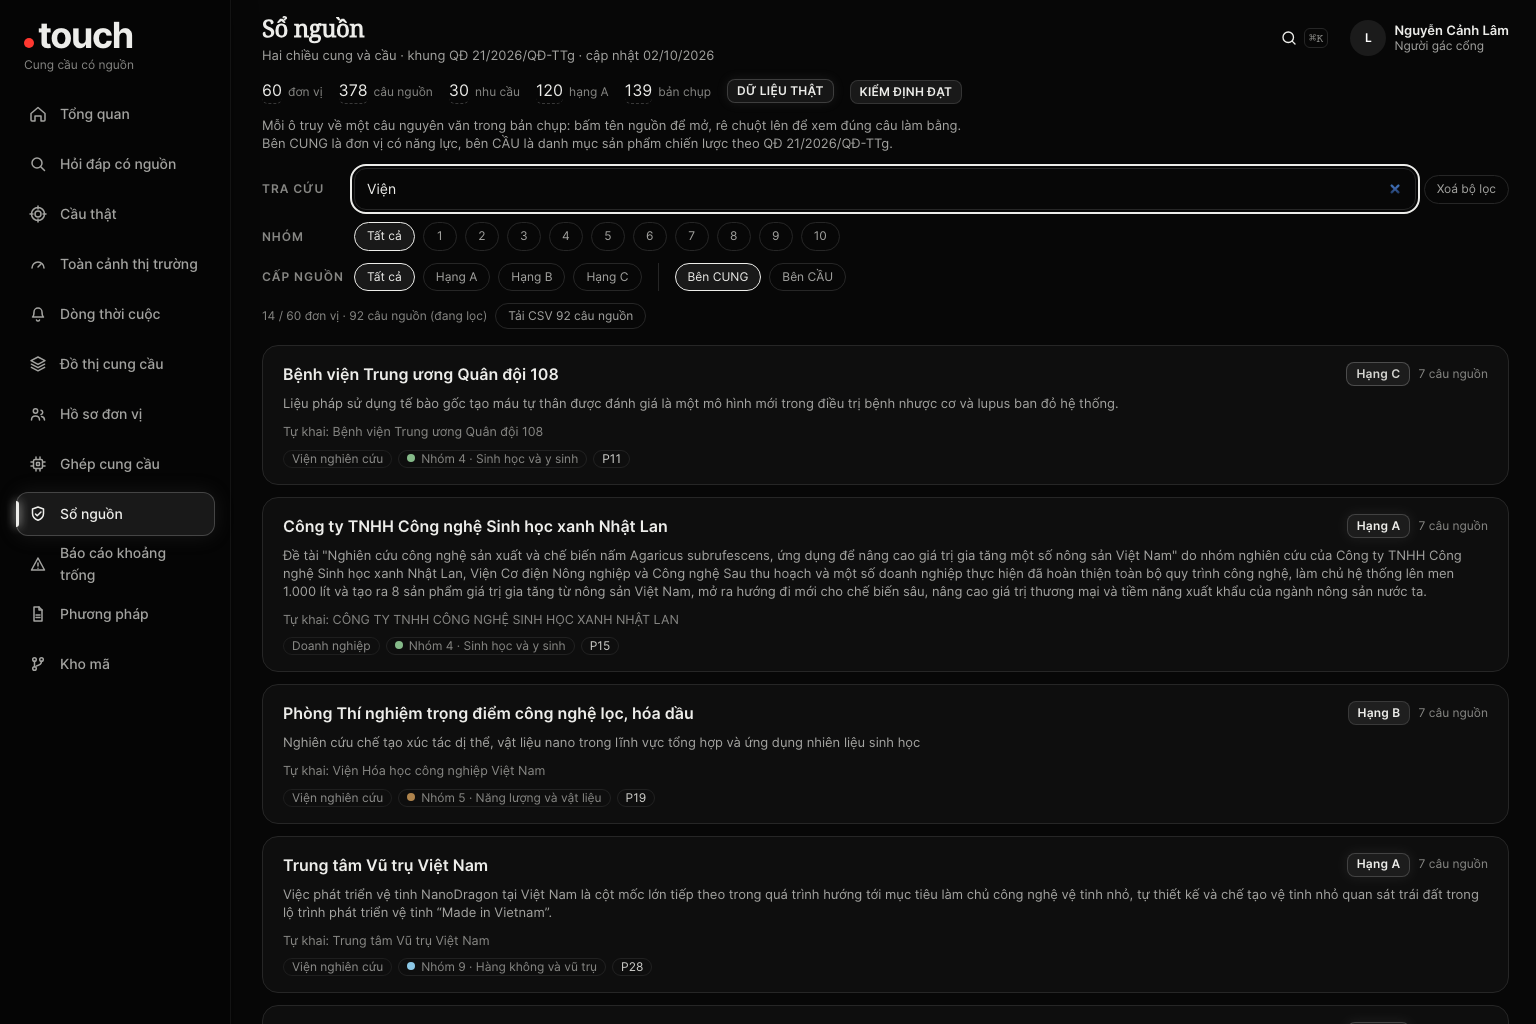
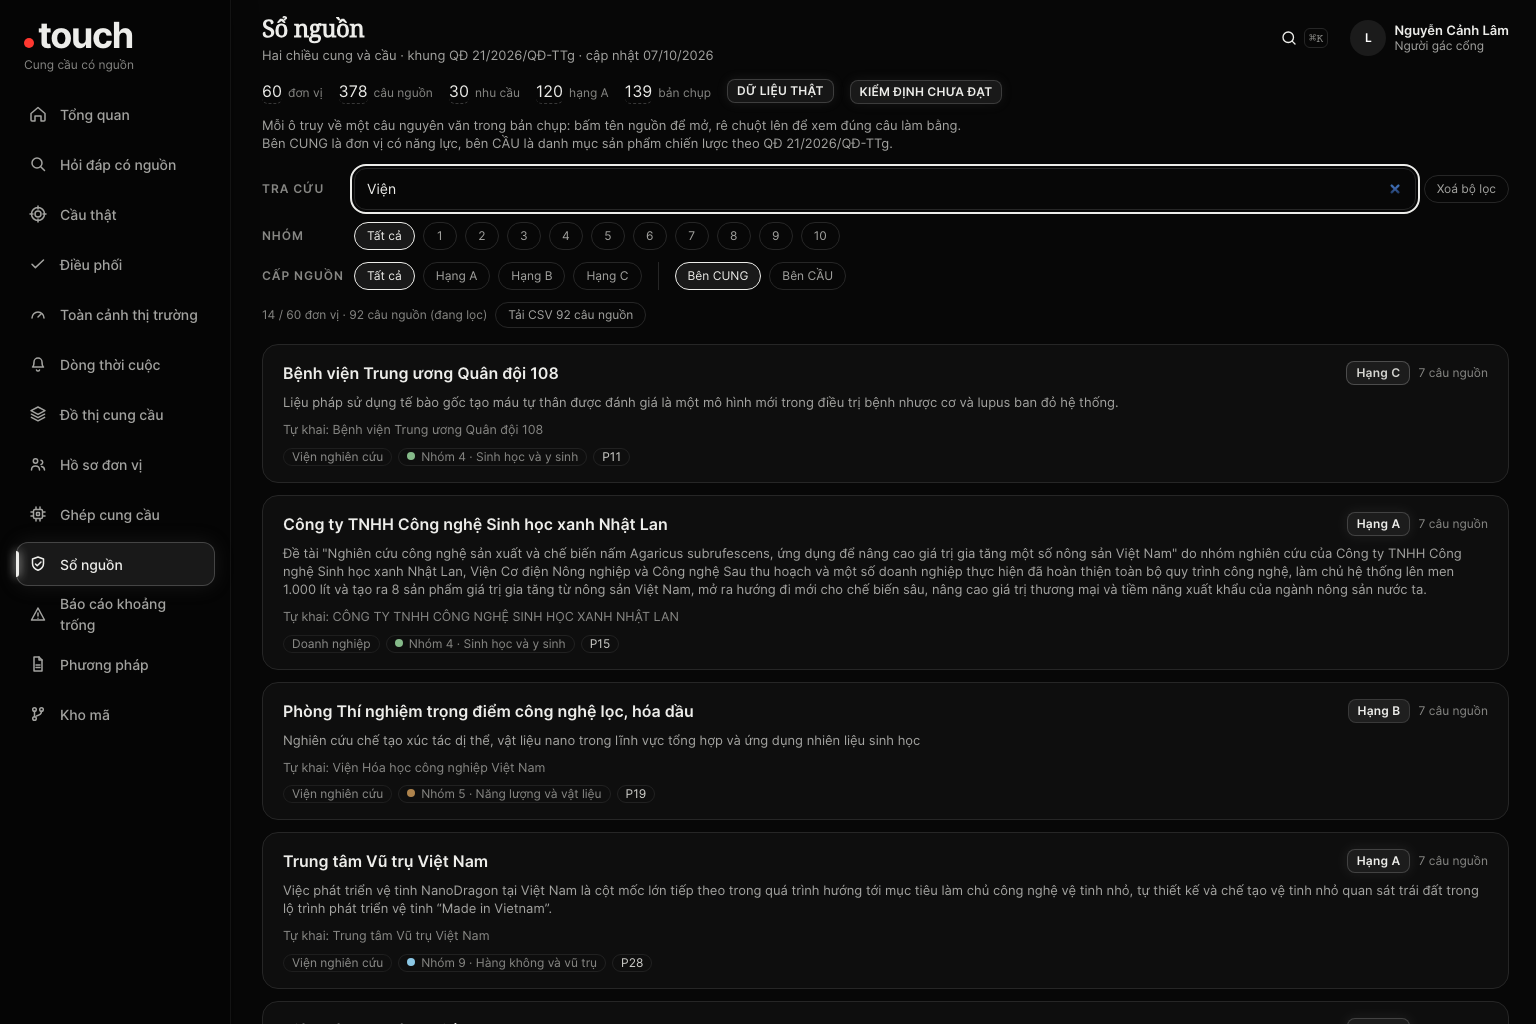
Quet lai truy cap kem man Dieu phoi, anh moc, ket qua chuoi tren may that

diff --git a/.touch/lib/cncl-registry.ts b/.touch/lib/cncl-registry.ts
@@ -39,16 +39,16 @@ export const cnclMeta: CnclMeta = {
   "nhomPhu": 10,
   "generatedAt": "2026-10-07",
   "frame": "QĐ 21/2026/QĐ-TTg",
-  "gate": "chuỗi cổng 2026-10-02 11:32: 122/122 xanh",
+  "gate": "chuỗi cổng 2026-10-07 09:51: 122/126 xanh · ĐỎ 2 · không chạy 2",
   "chuoiCong": {
-    "luc": "2026-10-02T11:32:02+0700",
+    "luc": "2026-10-07T09:51:32+0700",
     "cheDo": "day_du",
-    "tong": 122,
+    "tong": 126,
     "xanh": 122,
-    "do": 0,
-    "khongChay": 0,
+    "do": 2,
+    "khongChay": 2,
     "hoan": 0,
-    "dat": true
+    "dat": false
   }
 };
 
